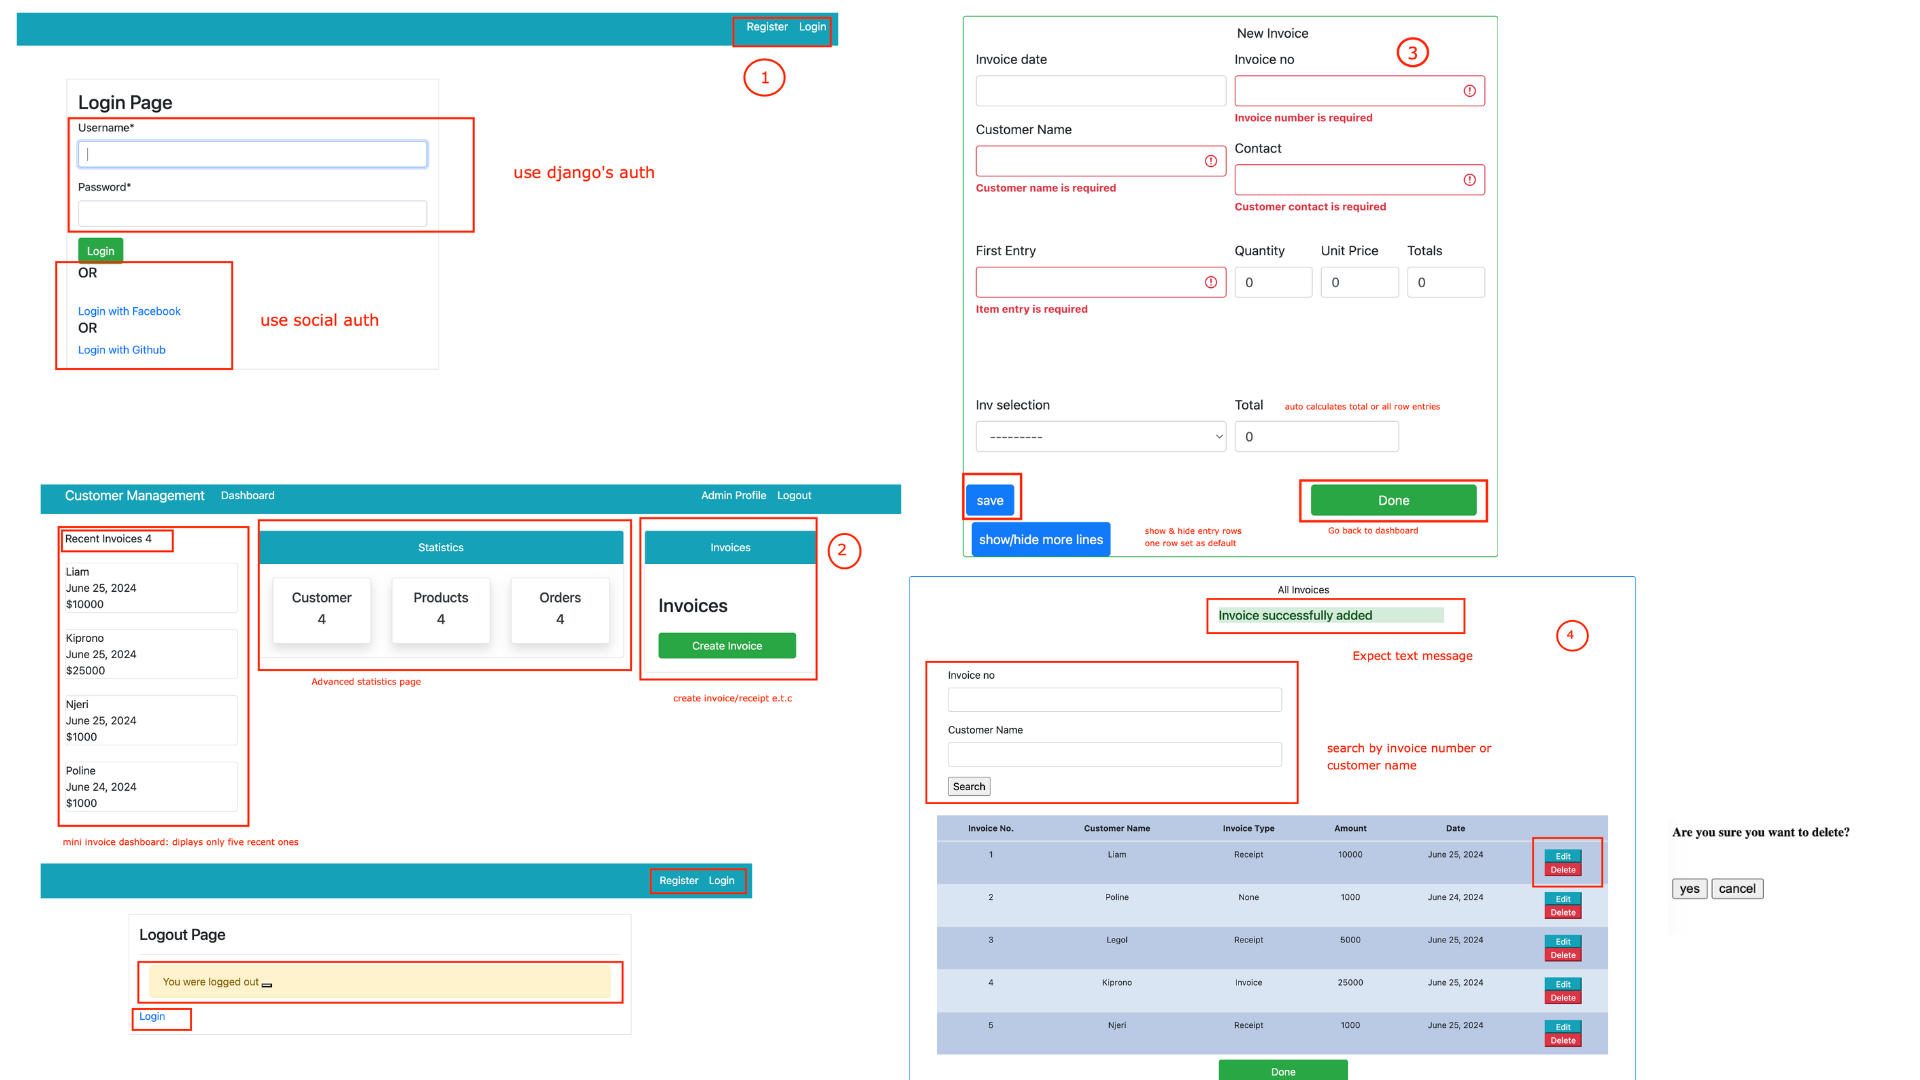
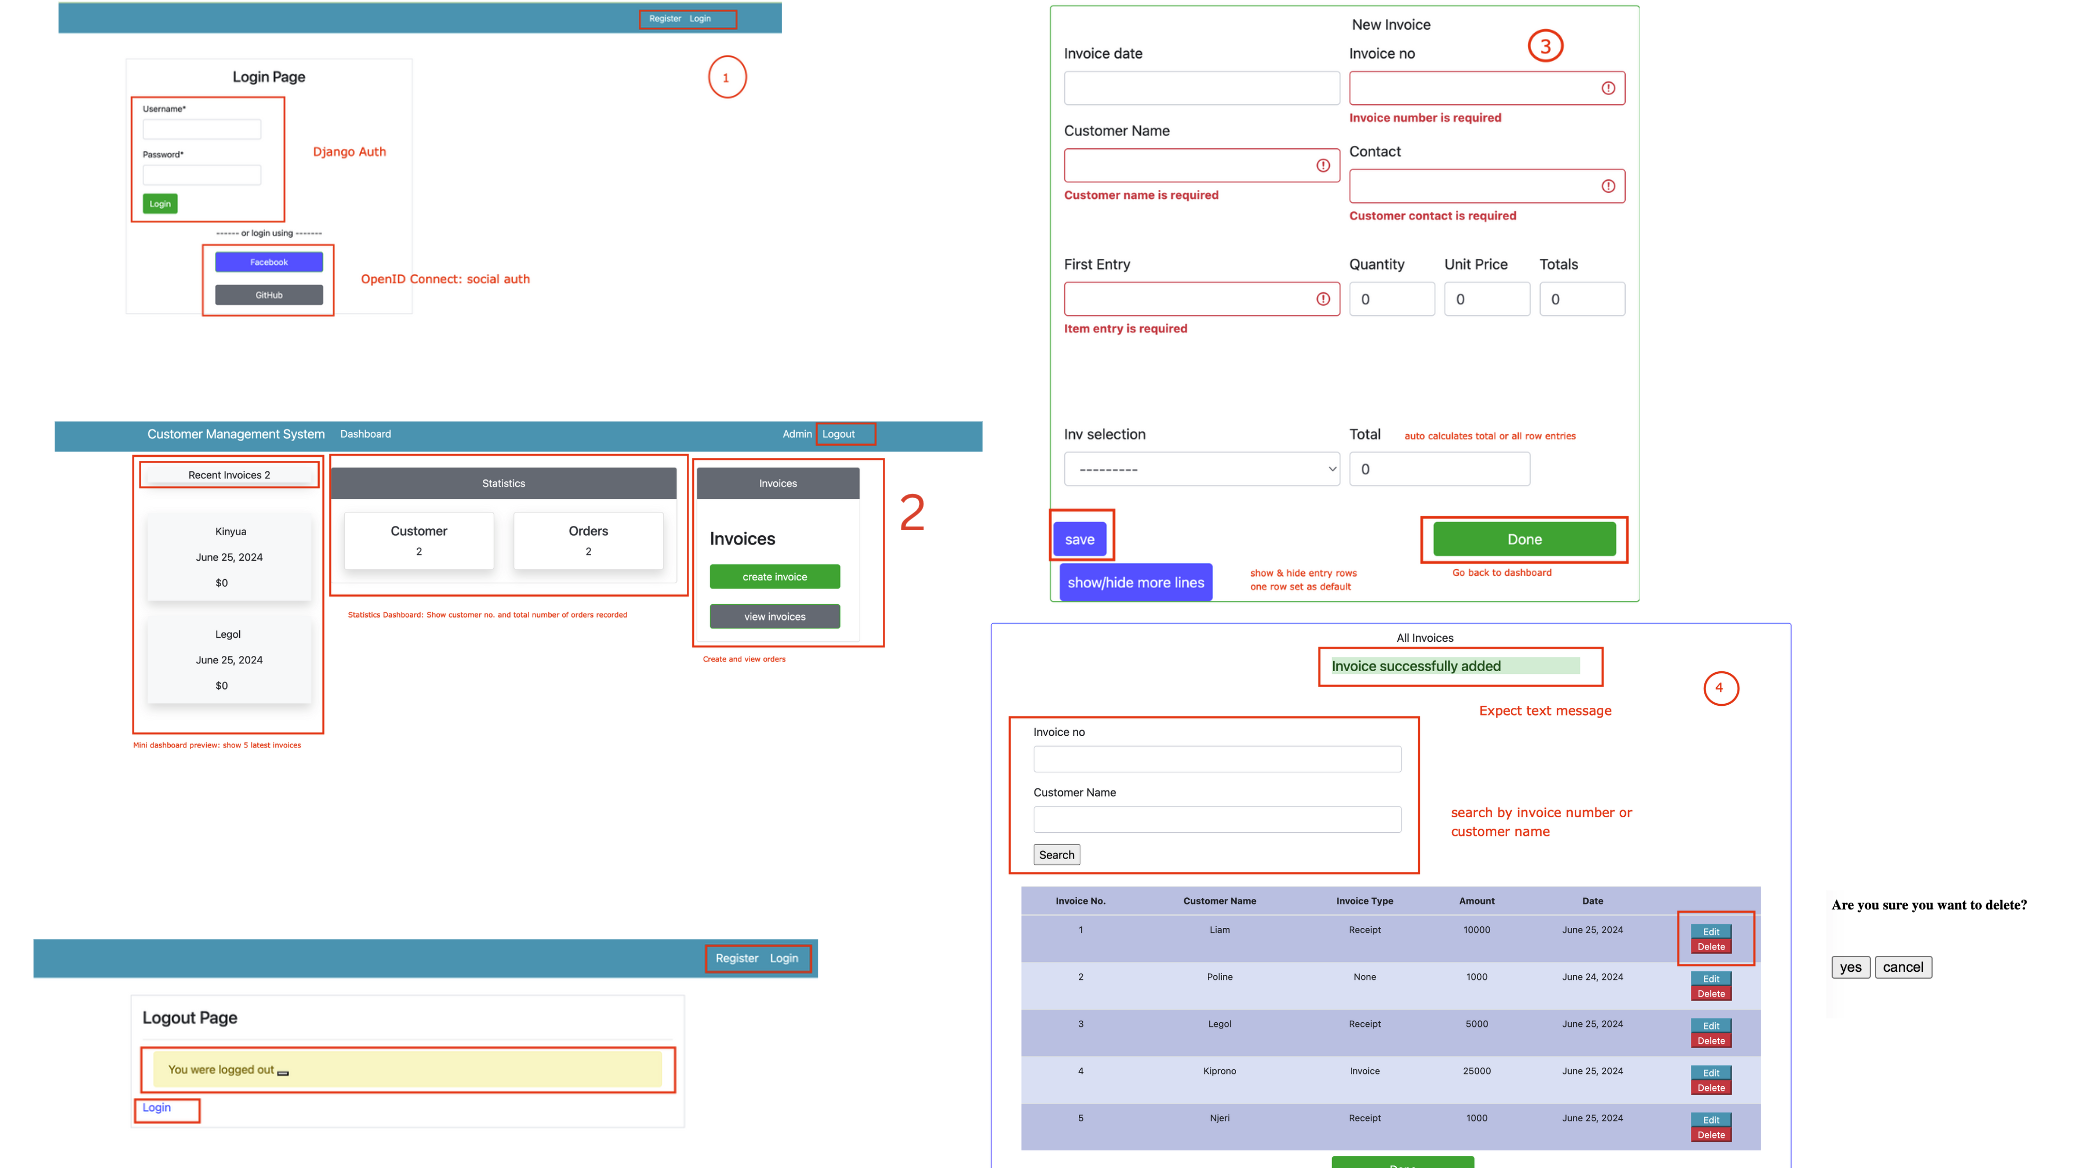
customer management system advanced

diff --git a/templates/partials/topnavigation.html b/templates/partials/topnavigation.html
@@ -11,58 +11,60 @@
         <div class="container">
             <div class="row justify-content-evenly mt-4">
                 <!--#1 Recent Invoices-->
-                <div class="col-md-3">
-                    <div class="recent">
-                        <span class=""> Recent Invoices</span>
-                        <span class=""> {{total_invoices}}</span>
-                        <br>
-                        <br>
-                        {% for instance in queryset %}
-                            <div class="card">
-                                <div class="">{{instance.customer_name}}</div>
-                                <div class="">{{instance.invoice_date}}</div>
 
-                            <div class=" ">${{instance.total}}</div>
+                        <div class="col-md-3">
+                            <div class="recent">
+                                <div class="bg-light shadow text-center">
+                                    <span class=""> Recent Invoices</span>
+                                    <span class=""> {{total_invoices}}</span>
+                                </div>
+                                <br>
+                                <br>
+                                {% for instance in queryset %}
+                                <!-- Recursive card-->
+                                    <div class="bg-light my-card shadow text-center p-2" >
+                                        <div class="col-md-3 d-inline-flex p-2 ">
+                                            {{instance.customer_name}}
+                                        </div>
+                                        <div class=" col-md-3d-inline-flex p-2 ">
+                                            {{instance.invoice_date}}
+                                        </div>
+
+                                        <div class="col-md-3 d-inline-flex p-2 ">
+                                            ${{instance.total}}
+                                        </div>
+
+                                    </div>
+                                    <br>
+                                {% endfor %}
+
+                            </div>
                         </div>
-                            <br>
-                        {% endfor %}
-                        
-                    </div>
-                </div>
 
 
                 <!--#2 Statistics Card-->
                 <div class="col-md-6">
                     <div class="card">
-                        <div class="card-header bg-info text-white text-center">
+                        <div class="card-header bg-secondary text-white text-center">
                             Statistics
                         </div>
                         <!--card body-->
                         <div class="card-body">
                             <div class="row">
-                                <div class="col-md-4">
+                                <div class="col-md-6">
                                     <a class="text-decoration-none text-dark" href="{% url 'dashboard-customer'%}">
                                         <div class="card my-card shadow text-center p-3">
                                             <h5>Customer <i class="fas fa-users"></i></h5>
-                                            <h5>4</h5>
+                                            <span class=""> {{total_invoices}}</span>
                                         </div>
                                     </a>
                                 </div>
-                                <!--products-->
-                                <div class="col-md-4">
-                                    <a class="text-decoration-none text-dark" href="{% url 'dashboard-product'%}">
-                                        <div class="card my-card shadow text-center p-3">
-                                            <h5>Products <i class="fas fa-box"></i></h5>
-                                            <h5>4</h5>
-                                        </div>
-                                    </a>
-                                </div>
-                                <!--Orders-->
-                                <div class="col-md-4">
+                                <!--Orders here-->
+                                <div class="col-md-6">
                                     <a class="text-decoration-none text-dark" href="{% url 'dashboard-orders'%}">
                                         <div class="card my-card shadow text-center p-3">
                                             <h5>Orders <i class="fas fa-shipping-fast"></i></h5>
-                                            <h5>4</h5>
+                                            <span class=""> {{total_invoices}}</span>
                                         </div>
                                     </a>
                                 </div>
@@ -76,13 +78,18 @@
                 <!-- #3 Forms Here-->
                 <div class="col-md-3">
                     <div class="card">
-                        <div class="card-header bg-info text-white text-center">
+                        <div class="card-header bg-secondary text-white text-center">
                             Invoices
                         </div>
                         <div class="card-body">
                                 <h3 class="my-4">Invoices</h3>
                                 <a class="create-invoice text-decoration-none" href="{% url 'invoice'%}">
-                                    <input class="btn btn-success " type="" value="Create Invoice">
+                                    <input class="btn btn-success " type="" value="create invoice">
+                                </a>
+                                <br>
+                                <br>
+                                <a class="create-invoice text-decoration-none" href="{% url 'invoice_view'%}">
+                                    <input class="btn btn-success bg-secondary" type="" value="view invoices">
                                 </a>
                         </div>
                     </div>

diff --git a/templates/user/login.html b/templates/user/login.html
@@ -6,21 +6,37 @@
  <div class="container">
    <div class="row mt-5">
      <div class="col-md-6">
-       <div class="border p-3 bg-white">
-         <h3> Login Page</h3>
-         <form method=POST>
-           {% csrf_token %}
-           {{ form|crispy }}
-           <input class="btn btn-success" type="submit" value="Login">
-         </form>
-         <h5>OR</h5>
-         <!--Facebook Login-->
+       <div class="border p-3 bg-white ">
+          <div class="text-center">
+            <h3> Login Page</h3>
+            <br>
+          </div>
+
+          <div class="col-md-6">
+            <form method=POST>
+              {% csrf_token %}
+              {{ form|crispy }}
+              <input class="btn btn-success text-center" type="submit" value="Login">
+            </form>
+          </div>
+          <br>
+          <div class="text-center">
+           <h7>------ or login using -------</h7>
          <div>
+          <br>
+
+         <!--Facebook Login-->
+         <div class="text-center">
+            <a class="facebook text-decoration-none" href="{% url 'social:begin' 'facebook' %}">
+              <input class="btn btn-success bg-primary" type="" value="Facebook">
+            </a>
             <br>
-            <a href="{% url 'social:begin' 'facebook' %}">Login with Facebook</a>
+
             <br>
-            <h5>OR</h5>
-            <a href="{% url 'social:begin' 'github' %}">Login with Github</a> <br/>
+            <a class="facebook text-decoration-none" href="{% url 'social:begin' 'github' %}">
+              <input class="btn btn-secondary bg-secondary" type="" value="GitHub">
+            </a>
+          </div>
          </div>
        </div>
      </div>

diff --git a/templates/partials/nav.html b/templates/partials/nav.html
@@ -5,7 +5,7 @@
 
      {% if user.is_authenticated %}
     <!--Display dashboardd, logout and Admin Profile-->
-    <a class="navbar-brand text-white" href="{%url 'dashboard-index'%}">Customer Management</a>
+    <a class="navbar-brand text-white" href="{%url 'dashboard-index'%}">Customer Management System</a>
     <button
       class="navbar-toggler"
       type="button"
@@ -27,7 +27,7 @@
     <!-- Admin-->
     <ul class="navbar-nav ml-auto">
       <li class="nav-item active">
-        <a class="nav-link text-white" href="">Admin Profile<span class="sr-only">(current)</span></a>
+        <a class="nav-link text-white" href="">Admin <span class="sr-only">(current)</span></a>
       </li>
 
       <!-- Logout-->

diff --git a/templates/dashboard/invoice_view.html b/templates/dashboard/invoice_view.html
@@ -1,12 +1,14 @@
 {% load static %}
 {% load crispy_forms_tags %}
+{%include 'partials/nav.html'%}
+
 <html>
     <head>
         <link rel="stylesheet" type="text/css" href="https://stackpath.bootstrapcdn.com/bootstrap/4.5.2/css/bootstrap.min.css">
         <link href="{%static 'css/stylesheet.css' %}" rel="stylesheet">
         <title><h5>Invoices List</h5></title>
     </head>
-    <body class="body p-4">
+    <body>
         <div class="container border rounded border-primary">
             <div class="col-md-4 offset-md-6 p-2">
                 {{title}}

diff --git a/templates/dashboard/invoice.html b/templates/dashboard/invoice.html
@@ -1,5 +1,6 @@
 {% load static %}
 {% load crispy_forms_tags %}
+{%include 'partials/nav.html'%}
 <html>
     <head>
         <link rel="stylesheet" type="text/css" href="https://stackpath.bootstrapcdn.com/bootstrap/4.5.2/css/bootstrap.min.css">

diff --git a/CustomerManagementSystem/settings.py b/CustomerManagementSystem/settings.py
@@ -78,15 +78,16 @@ TEMPLATES = [
 WSGI_APPLICATION = 'CustomerManagementSystem.wsgi.application'
 
 
-# Database
-# https://docs.djangoproject.com/en/5.0/ref/settings/#databases
-
+# For Local development
 # DATABASES = {
 #     'default': {
 #         'ENGINE': 'django.db.backends.sqlite3',
 #         'NAME': BASE_DIR / 'db.sqlite3',
 #     }
 # }
+
+# For Deployment
+
 DATABASES = {
     'default': {
         'ENGINE': 'django.db.backends.postgresql',
